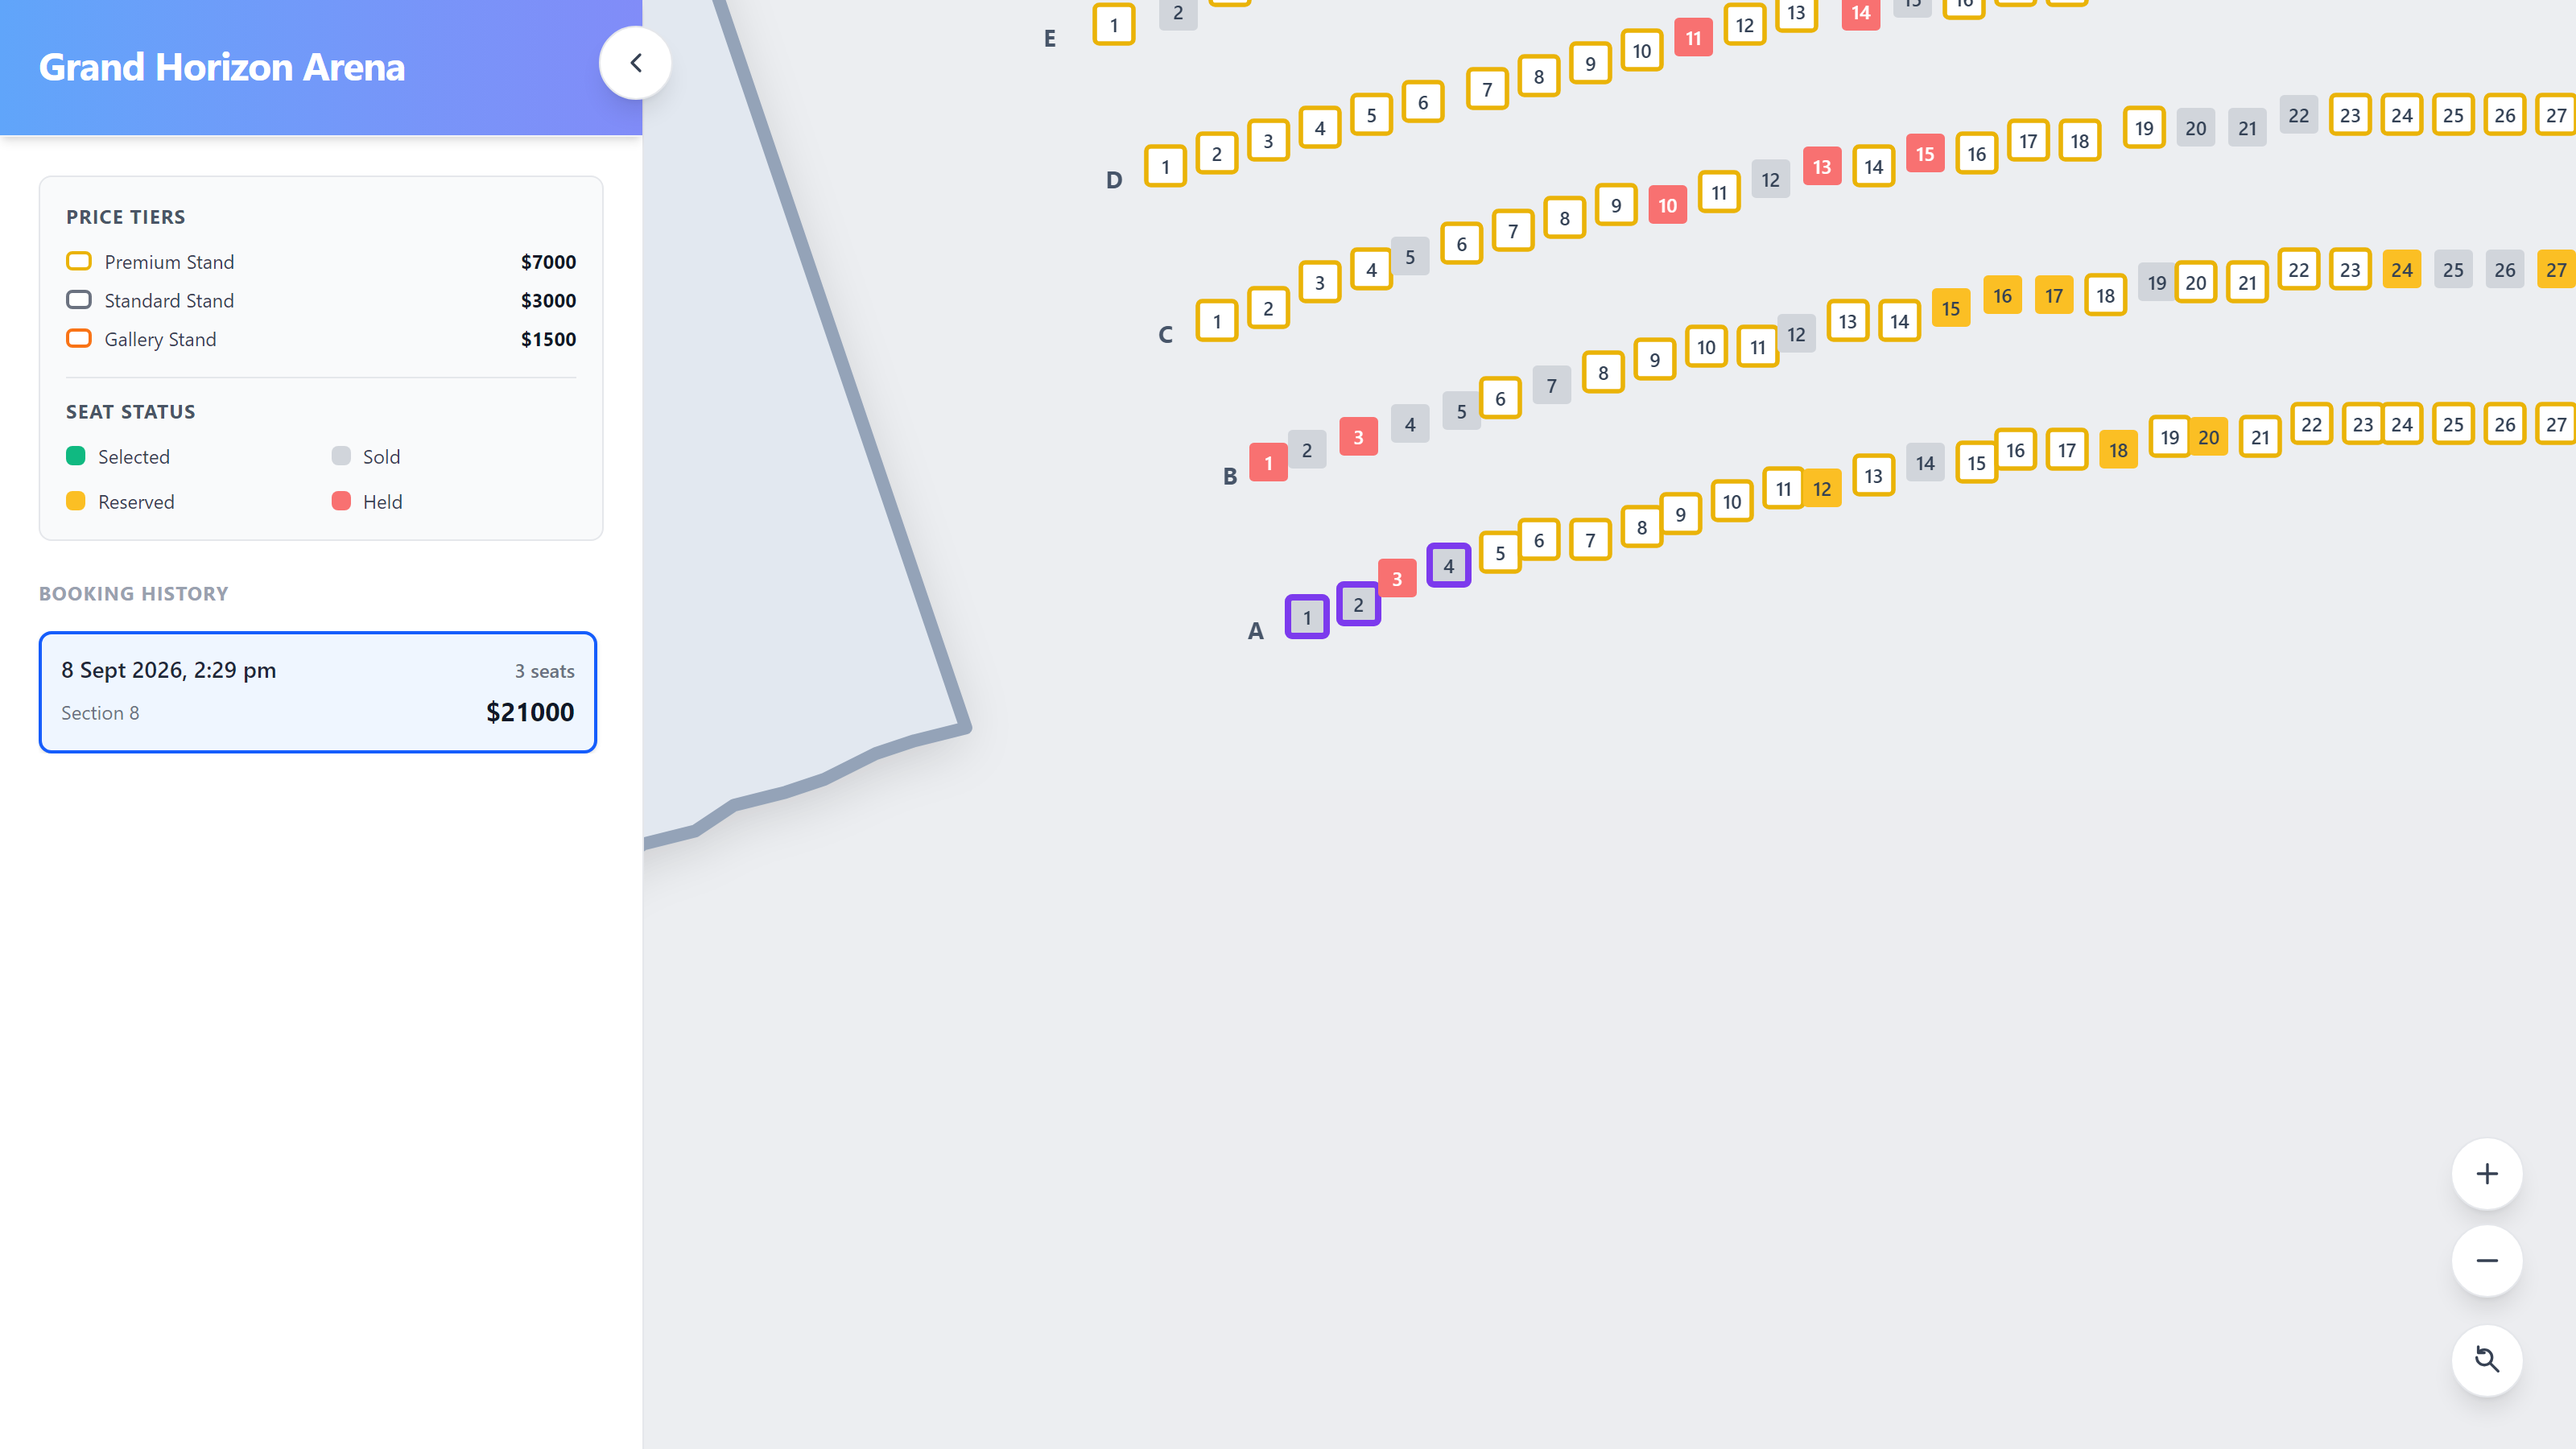
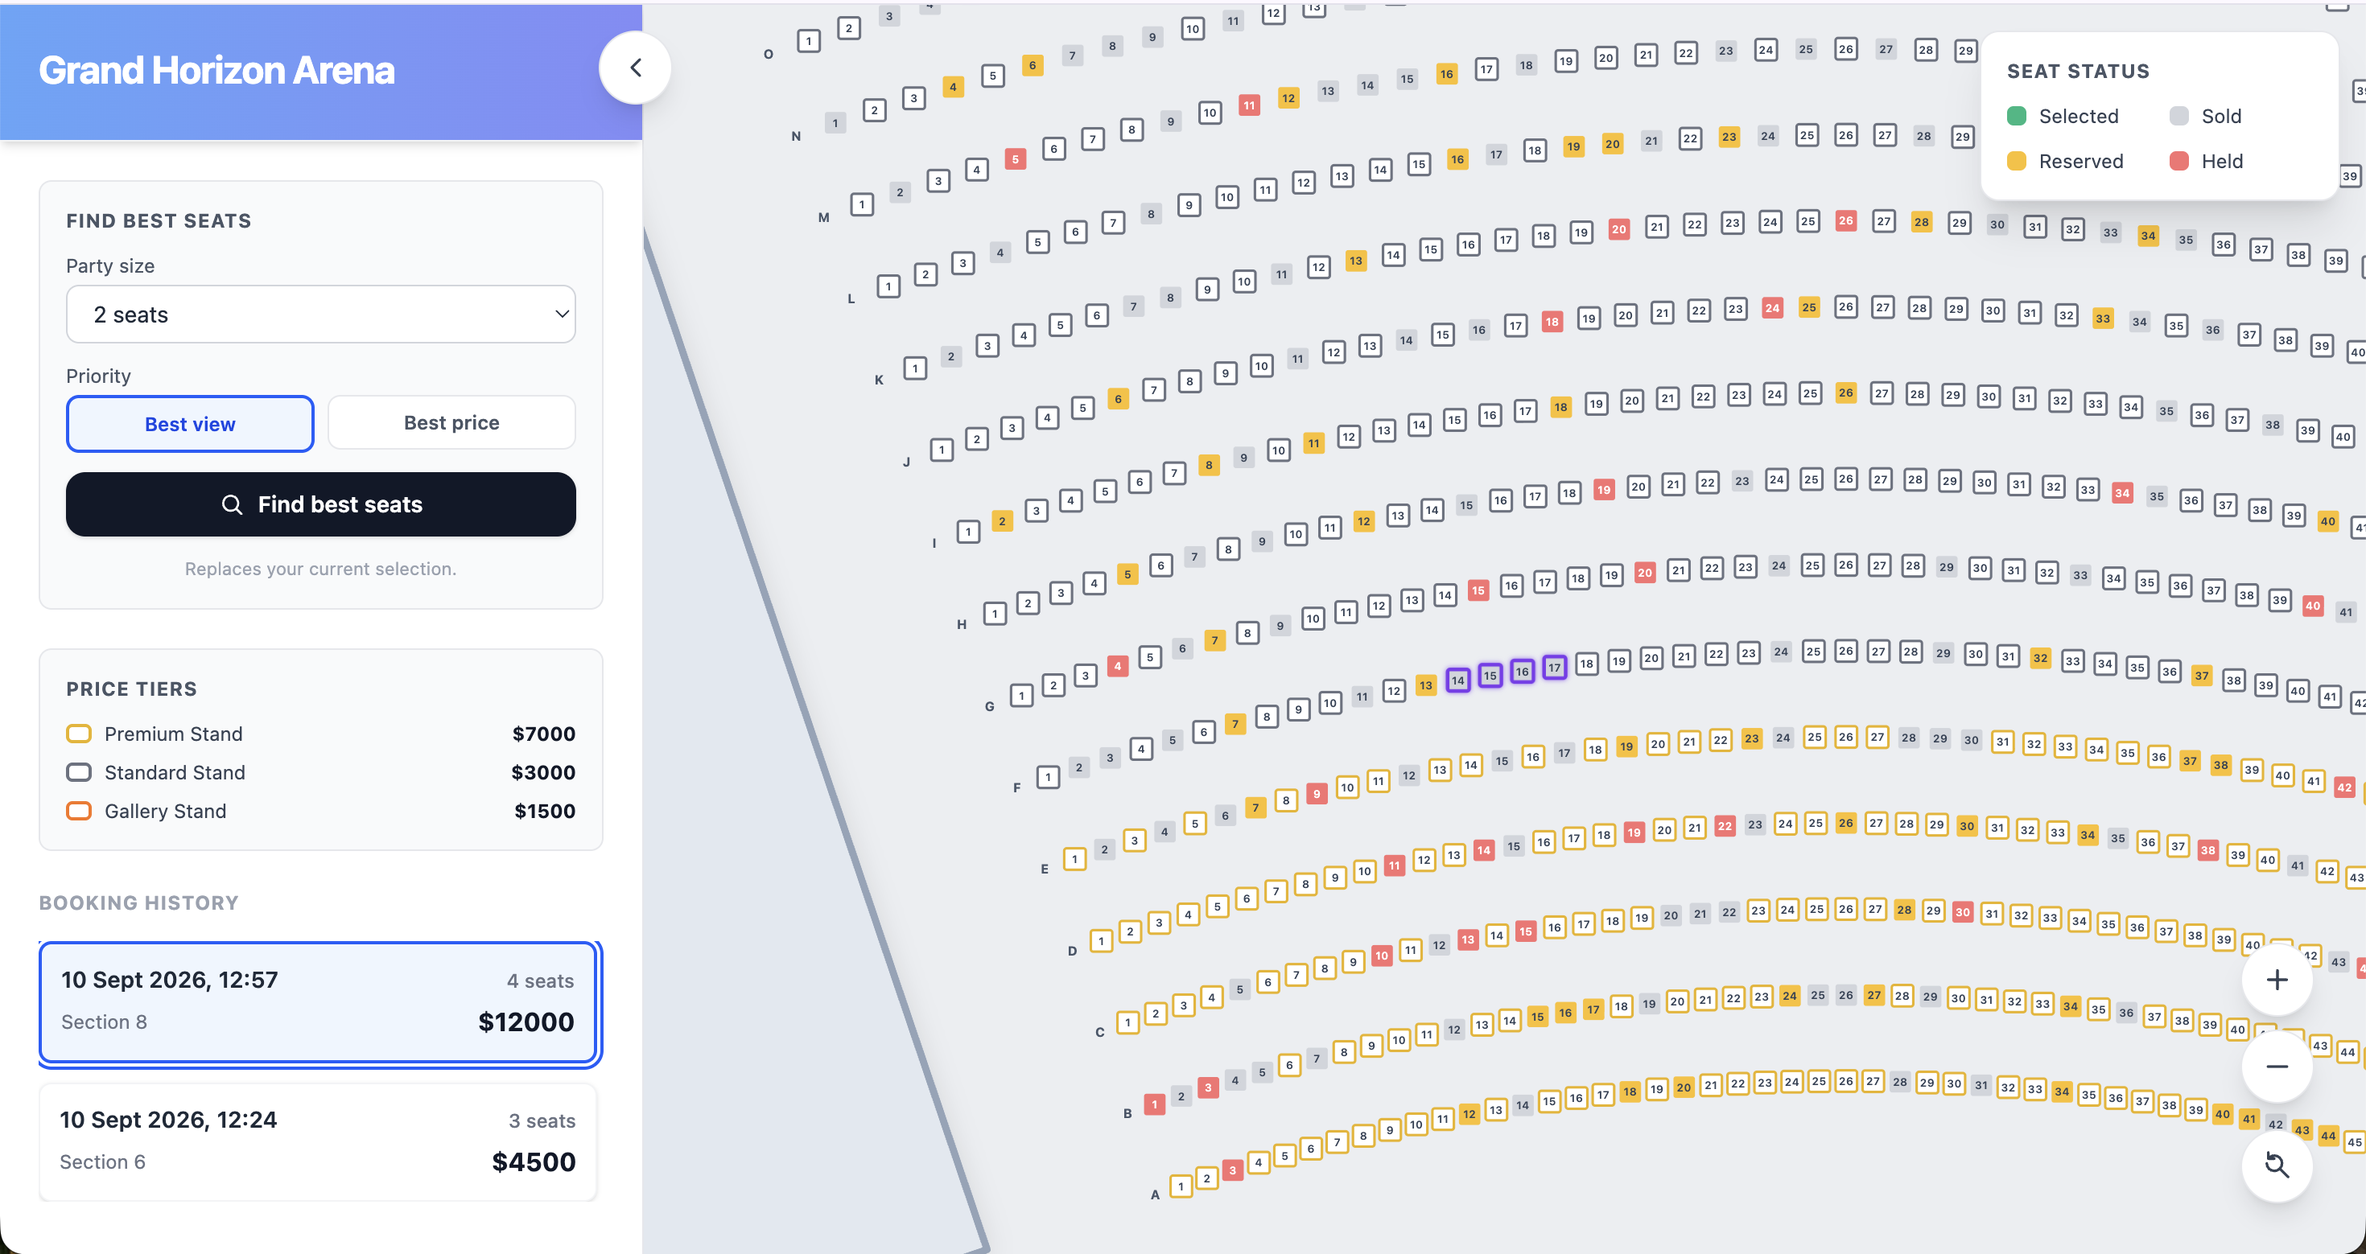
docs: update README with new features and screenshots for Best Seats Finder and selection toolbar

diff --git a/README.md b/README.md
@@ -21,8 +21,8 @@ keeping the map interactive at that scale using nothing heavier than React + SVG
 
 ## 📸 Screenshots
 
-**Overview** - the full venue map with all 10 sections collapsed, and the Booking History sidebar
-in its default state.
+**Overview** - the full venue map with all 10 sections collapsed, and the sidebar showing the Best
+Seats Finder, price tiers, and booking history from prior purchases.
 
 ![Venue overview](docs/screenshots/overview.png)
 
@@ -35,6 +35,17 @@ held) visible at once, with the live selected-seats list and running total in th
 exact seats back on the map.
 
 ![Booking history with a highlighted past booking](docs/screenshots/booking-history.png)
+
+**Best Seats Finder** - pick a party size and priority ("Best view" or "Best price") and the
+solver focuses/selects the single best contiguous block on the map.
+
+![Best seats finder panel picking a block of seats](docs/screenshots/best-seats-finder.png)
+
+**Floating selection toolbar & status legend** - the bottom-center toolbar (seat count, running
+total, checkout countdown, one-click clear) and the top-right status legend, both overlaid on the
+map itself so they stay visible even with the sidebar closed.
+
+![Floating selection toolbar and seat status legend over the map](docs/screenshots/selection-toolbar.png)
 
 ---
 
@@ -56,6 +67,9 @@ flowchart TD
     A --> K["HoldRuntime<br/>(renders nothing)"]
     K -.expiry timer.-> H
     K <-.BroadcastChannel.-> L["Other tabs"]
+    A --> M["SeatStatusLegend<br/>(fixed corner card)"]
+    A --> N["SelectionToolbar<br/>(floating, hidden when empty)"]
+    H -.reads.-> N
 ```
 
 ### 15,000+ seat rendering: section-level collapsing
@@ -136,6 +150,20 @@ Real ticketing sites don't just mark seats "held" once and forget - holds expire
   routine tick with nothing to do costs zero re-renders across the ~1,500 mounted seats - verified
   by a reference-equality (`toBe`) test, not just a behavioral one.
 
+### At-a-glance status and selection overlays
+
+Two small, always-available overlays sit on top of the map itself rather than in the sidebar, so
+they stay visible on mobile even when the booking panel is closed:
+
+- [`SeatStatusLegend.tsx`](src/components/SeatStatusLegend.tsx) is a fixed corner card explaining
+  what each seat color means (selected/sold/reserved/held) - it doesn't read from the store, it's
+  static reference UI for a map that otherwise relies on color alone to convey status.
+- [`SelectionToolbar.tsx`](src/components/SelectionToolbar.tsx) is a floating toolbar, bottom-center
+  over the map, that appears only once at least one seat is selected. It mirrors the sidebar's
+  running total and checkout countdown (via the same [`useCountdown.ts`](src/hooks/useCountdown.ts))
+  and offers a one-click "Remove" to clear the whole selection, without requiring the user to open
+  the sidebar first.
+
 ---
 
 ## ♿ Accessibility
@@ -149,6 +177,10 @@ Real ticketing sites don't just mark seats "held" once and forget - holds expire
 - Feedback that used to be a blocking `alert()` (hitting the 8-seat cap, the payment stub) is now
   an `aria-live="polite"` [`Toast`](src/components/Toast.tsx) region and inline confirmation state,
   so screen readers announce it without interrupting keyboard flow.
+- The floating overlays are landmarked, not just styled: [`SeatStatusLegend`](src/components/SeatStatusLegend.tsx)
+  is `role="region"` with an `aria-label`, and [`SelectionToolbar`](src/components/SelectionToolbar.tsx)
+  is `role="toolbar"` with an `aria-label`, so assistive tech announces them as distinct, navigable
+  regions rather than unlabeled floating `<div>`s.
 
 ---
 
@@ -161,6 +193,11 @@ Real ticketing sites don't just mark seats "held" once and forget - holds expire
   `held` seats expire and release on their own; two browser tabs share holds and sales live via
   `BroadcastChannel`, with a deterministic tie-break if they pick the same seat at once.
 - **Map navigation**: Click-and-drag panning with smart zoom in/out controls.
+- **Seat status legend**: A persistent corner card decoding every seat color (selected, sold,
+  reserved, held) at a glance.
+- **Floating selection toolbar**: A bottom-center overlay - visible whenever seats are selected,
+  even with the sidebar closed - showing seat count, running total, checkout countdown, and a
+  one-click clear.
 - **Accessibility**: Full arrow-key navigation between seats, keyboard-selectable seats (`role="checkbox"`).
 - **Persisted selection**: Selected seats survive a page refresh (Zustand + `localStorage`).
 - **Responsive layout**: A collapsible booking sidebar on mobile, side-by-side on desktop.
@@ -207,7 +244,8 @@ See [Engineering standards](#-engineering-standards) below for details.
 ├── src/
 │   ├── components/    # VenueMap, Section, Seat, BookingSummary, SeatSelectionPanel,
 │   │                   # SeatSelectionFooter, BookingHistoryPanel, BestSeatsFinder,
-│   │                   # CheckoutTimer, HoldRuntime, ConfirmDialog, Toast, Icon, IconButton
+│   │                   # CheckoutTimer, HoldRuntime, SeatStatusLegend, SelectionToolbar,
+│   │                   # ConfirmDialog, Toast, Icon, IconButton
 │   ├── hooks/
 │   │   ├── useVenue.ts        # Fetches and validates public/venue.json
 │   │   ├── useCountdown.ts    # Self-correcting per-second countdown, isolated from the store
